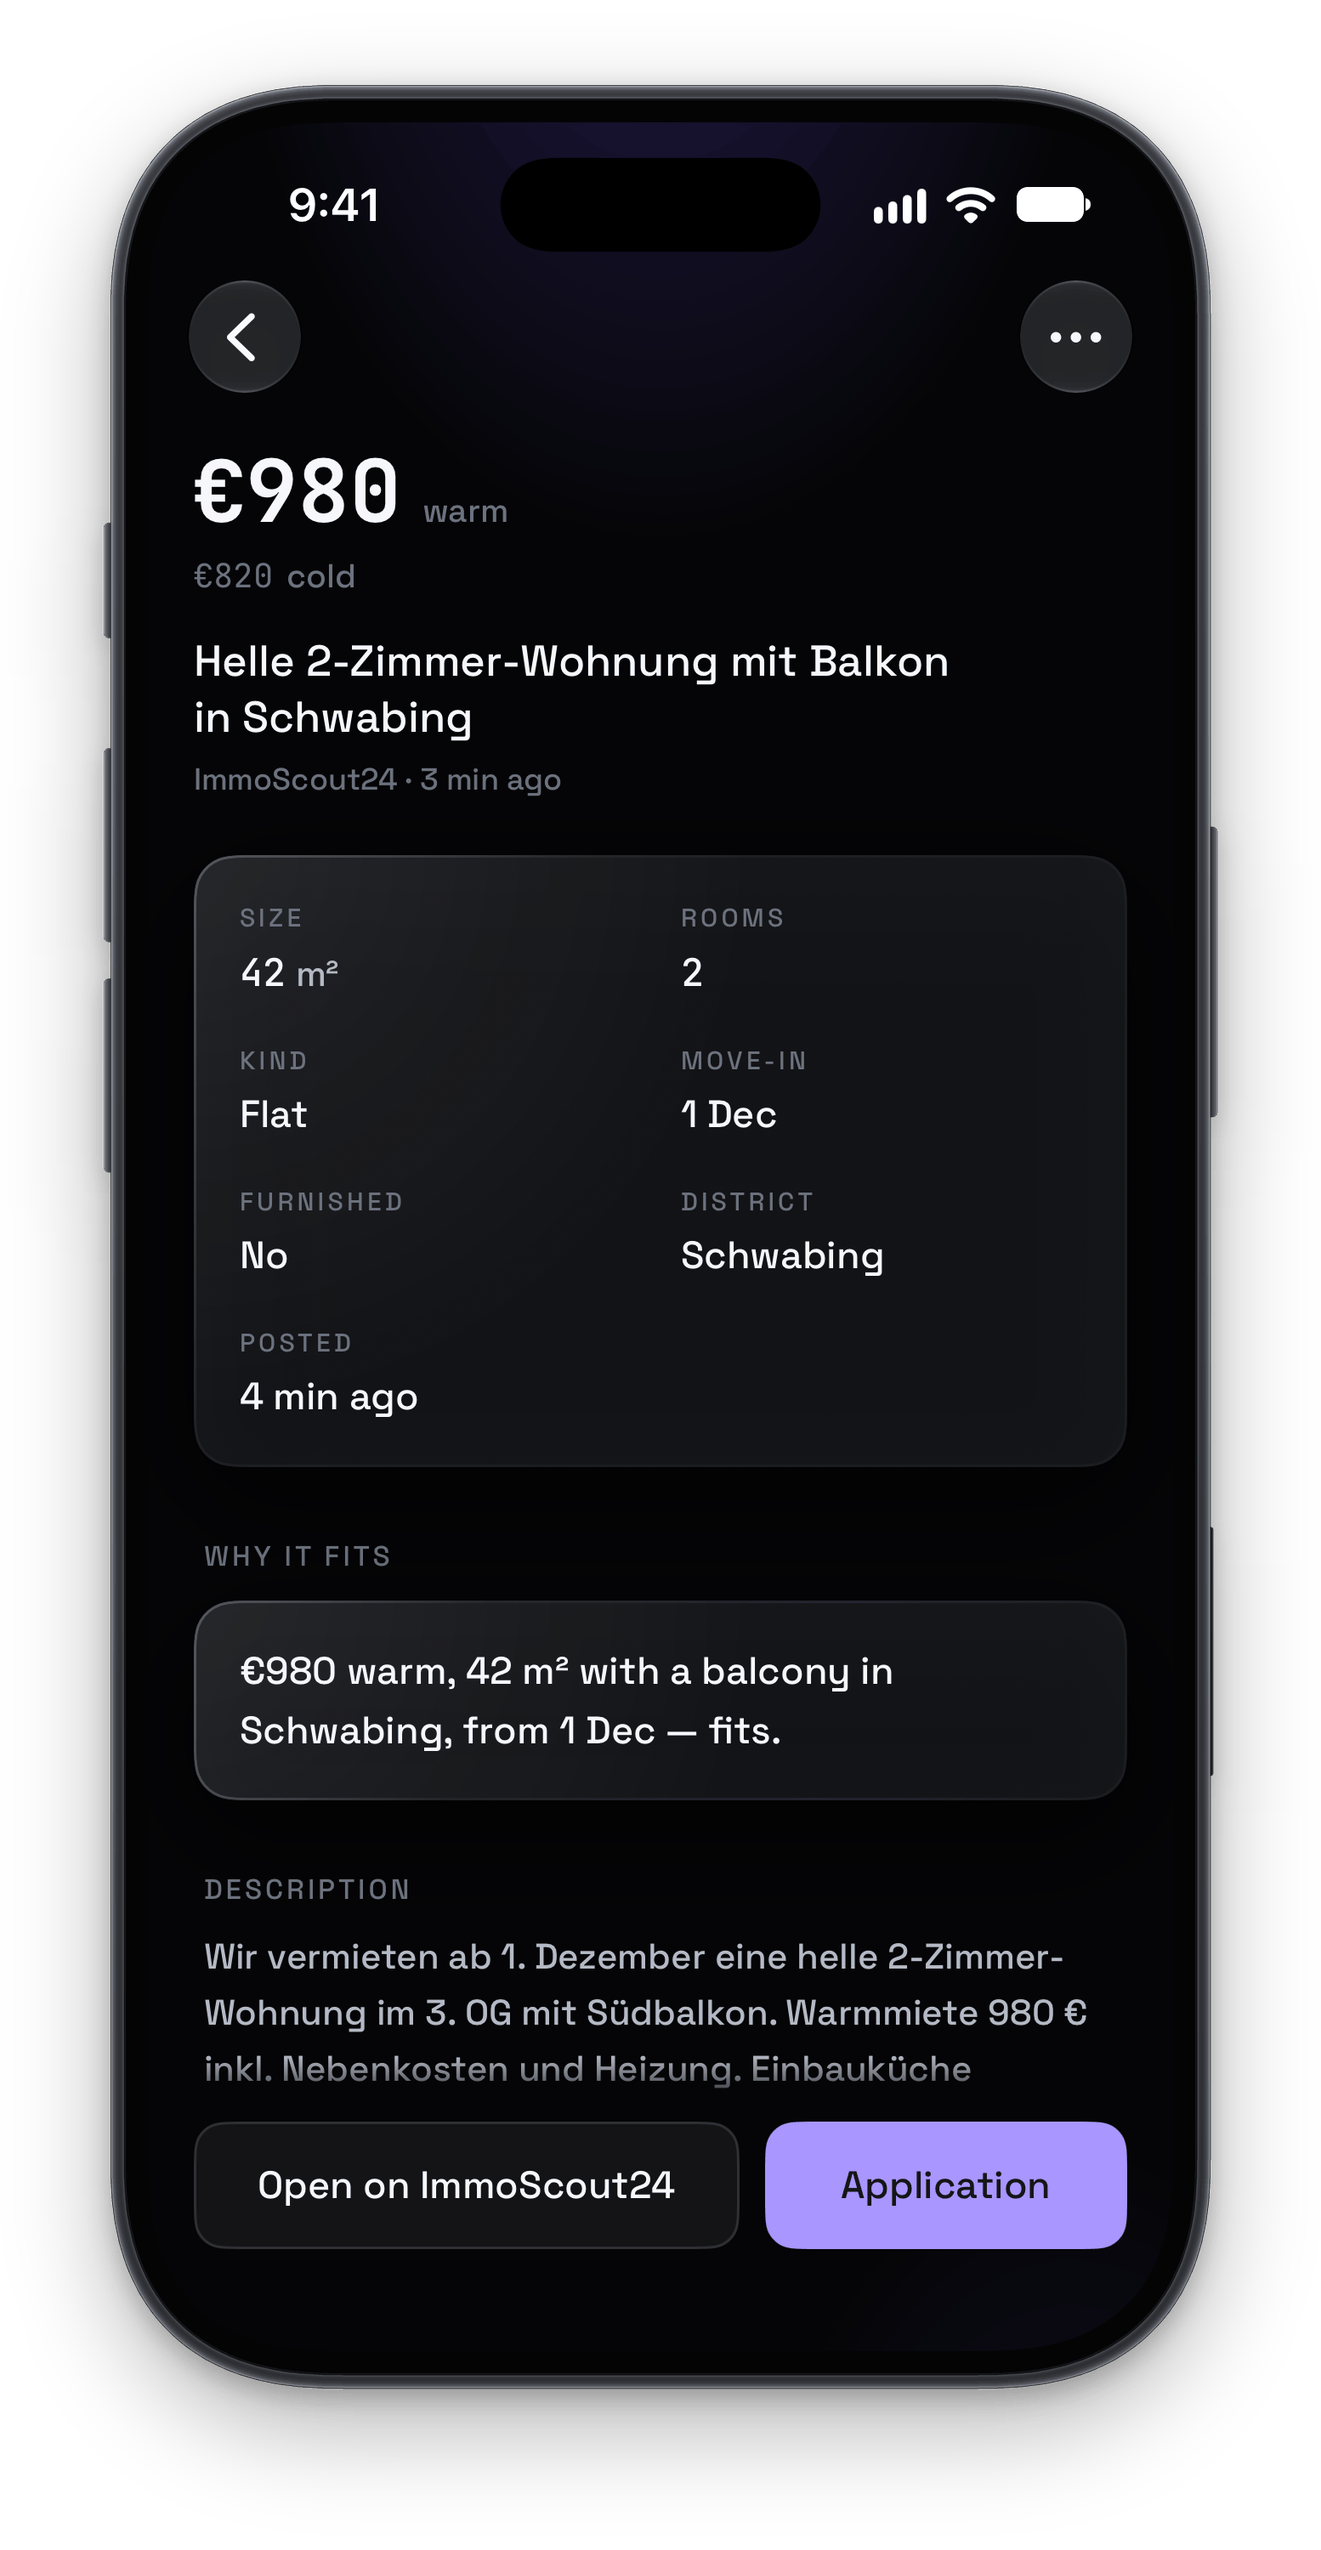
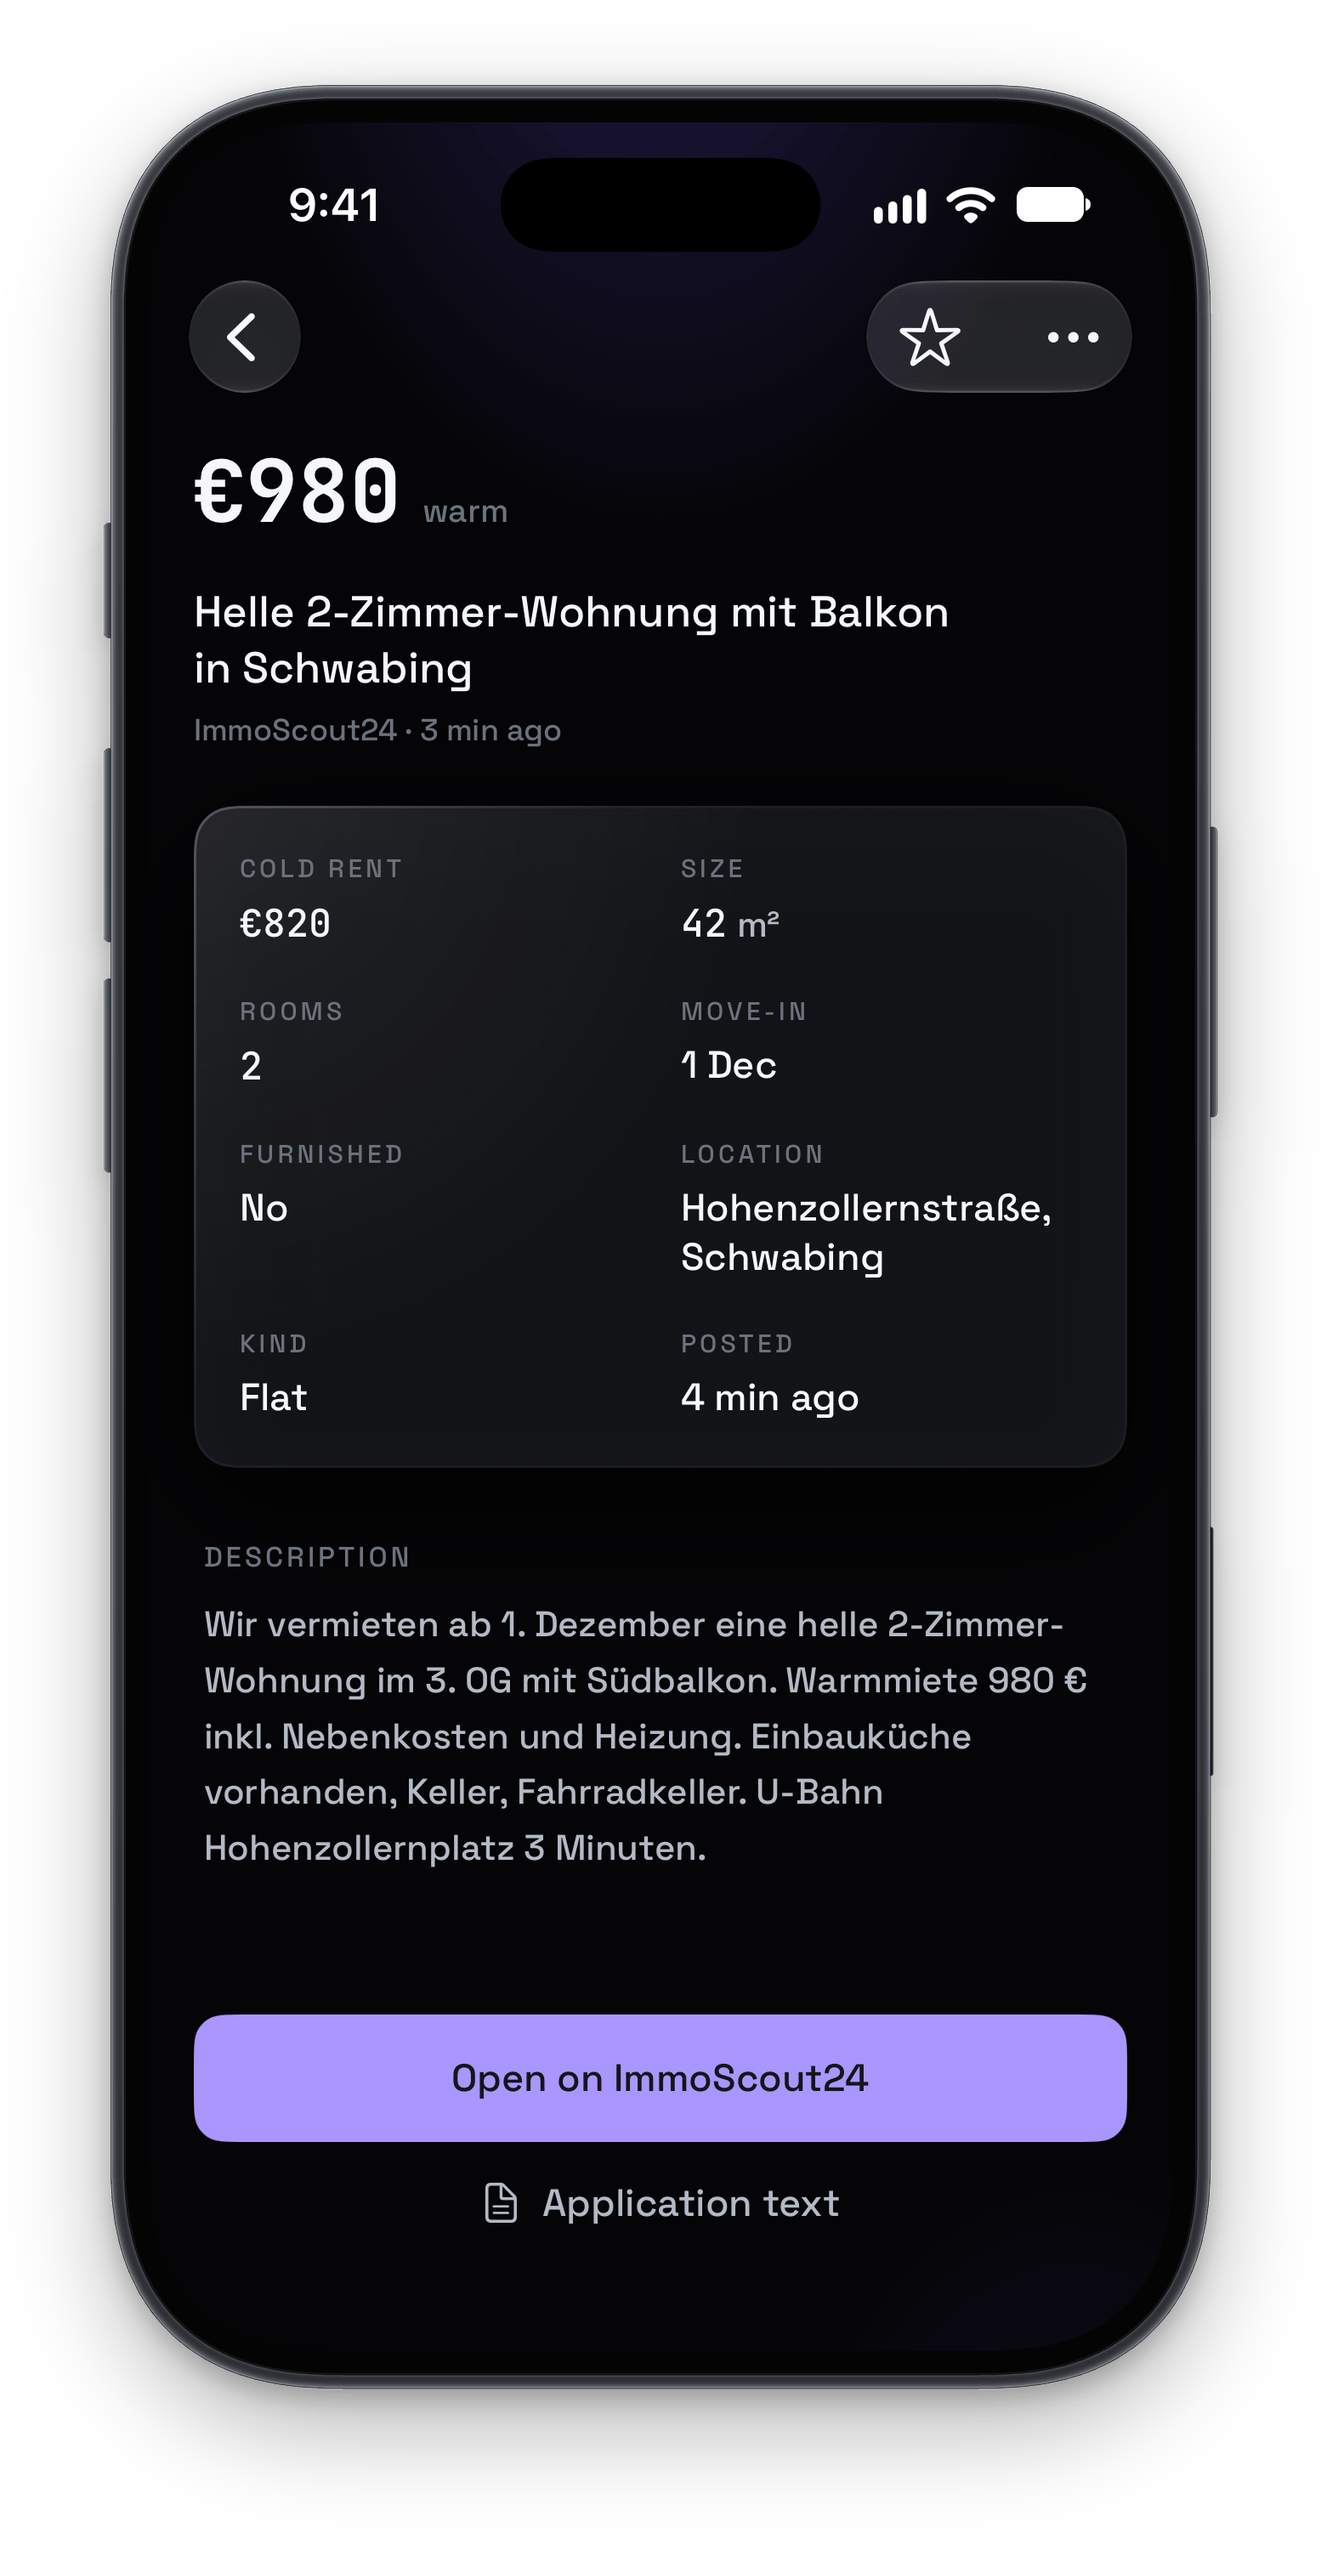
Arestemis showcase re-shot on the current app; Empire samples with Aresium's new hub text
The listing now has its Favoriten star and New search its one example per kind ("AirPods Max
everywhere"); two captions and the section title ("flat hunter") follow the app. Empire tests pass.

Claude-Session: https://claude.ai/code/session_015ffFyN8WqEnp4nBrLsutM1

diff --git a/scripts/showcase.py b/scripts/showcase.py
@@ -104,13 +104,13 @@ SHOTS = [
          "dark", 10, ("-sampleData", "-tab", "hunt")),
     Shot("arestemis", "02-listings-light", "New listings from every search, grouped by search",
          "light", 7, ("-sampleData", "-tab", "listings", "-listings", "new")),
-    Shot("arestemis", "03-listing-dark", "One listing: the facts, why it fits the search, the ad's own text",
+    Shot("arestemis", "03-listing-dark", "One listing: the facts, the ad's own text, a star to keep it in Favoriten",
          "dark", 7, ("-sampleData", "-openMatch", "41")),
     Shot("arestemis", "04-search-light", "A flat search, set in fields",
          "light", 7, ("-sampleData", "-tab", "search")),
     Shot("arestemis", "05-price-monitor-light", "A price monitor: the price over 90 days, the alarm's limit and the lowest and highest",
          "light", 8, ("-sampleData", "-openHunt", "9", "-priceDays", "90")),
-    Shot("arestemis", "06-new-search-dark", "New search: four kinds, each with examples to start from",
+    Shot("arestemis", "06-new-search-dark", "New search: four kinds, each with an example to start from",
          "dark", 7, ("-sampleData", "-newSearch")),
 
     Shot("aresus", "01-watchtower-dark", "The watchtower: the server, then every province by state",
@@ -492,7 +492,7 @@ def contact_sheet() -> Path | None:
 
 FULL_RUN_MINUTES = 6          # measured 2026-10-26 on the MacBook (5.9 min from a clean build folder)
 
-README_TITLES = {"aresium": "Aresium (finance)", "empire": "Empire (the hub)", "arestemis": "Arestemis (flat hunter)",
+README_TITLES = {"aresium": "Aresium (finance)", "empire": "Empire (the hub)", "arestemis": "Arestemis (searches)",
                  "aresus": "Aresus (watchtower and Aresync)", "arestoteles": "Arestoteles (knowledge vault)"}
 
 

diff --git a/showcase/README.md b/showcase/README.md
@@ -24,16 +24,16 @@ Made by `scripts/showcase.py`, which also writes this file; change a shot or cap
 | <a href="empire/04-approvals-dark.png"><img src="empire/04-approvals-dark.png" width="220" alt="Approvals: new sign-ups and requests for more apps"></a> | **04-approvals-dark.png**<br>Approvals: new sign-ups and requests for more apps |
 | <a href="empire/05-more-apps-dark.png"><img src="empire/05-more-apps-dark.png" width="220" alt="More apps: ask for another app; it joins your ring once approved"></a> | **05-more-apps-dark.png**<br>More apps: ask for another app; it joins your ring once approved |
 
-## Arestemis (flat hunter)
+## Arestemis (searches)
 
 | Image | What it shows |
 |---|---|
 | <a href="arestemis/01-hunt-dark.png"><img src="arestemis/01-hunt-dark.png" width="220" alt="Every search at a glance: flats, things for sale, a price monitor and page watches"></a> | **01-hunt-dark.png**<br>Every search at a glance: flats, things for sale, a price monitor and page watches |
 | <a href="arestemis/02-listings-light.png"><img src="arestemis/02-listings-light.png" width="220" alt="New listings from every search, grouped by search"></a> | **02-listings-light.png**<br>New listings from every search, grouped by search |
-| <a href="arestemis/03-listing-dark.png"><img src="arestemis/03-listing-dark.png" width="220" alt="One listing: the facts, why it fits the search, the ad's own text"></a> | **03-listing-dark.png**<br>One listing: the facts, why it fits the search, the ad's own text |
+| <a href="arestemis/03-listing-dark.png"><img src="arestemis/03-listing-dark.png" width="220" alt="One listing: the facts, the ad's own text, a star to keep it in Favoriten"></a> | **03-listing-dark.png**<br>One listing: the facts, the ad's own text, a star to keep it in Favoriten |
 | <a href="arestemis/04-search-light.png"><img src="arestemis/04-search-light.png" width="220" alt="A flat search, set in fields"></a> | **04-search-light.png**<br>A flat search, set in fields |
 | <a href="arestemis/05-price-monitor-light.png"><img src="arestemis/05-price-monitor-light.png" width="220" alt="A price monitor: the price over 90 days, the alarm's limit and the lowest and highest"></a> | **05-price-monitor-light.png**<br>A price monitor: the price over 90 days, the alarm's limit and the lowest and highest |
-| <a href="arestemis/06-new-search-dark.png"><img src="arestemis/06-new-search-dark.png" width="220" alt="New search: four kinds, each with examples to start from"></a> | **06-new-search-dark.png**<br>New search: four kinds, each with examples to start from |
+| <a href="arestemis/06-new-search-dark.png"><img src="arestemis/06-new-search-dark.png" width="220" alt="New search: four kinds, each with an example to start from"></a> | **06-new-search-dark.png**<br>New search: four kinds, each with an example to start from |
 
 ## Aresus (watchtower and Aresync)
 
